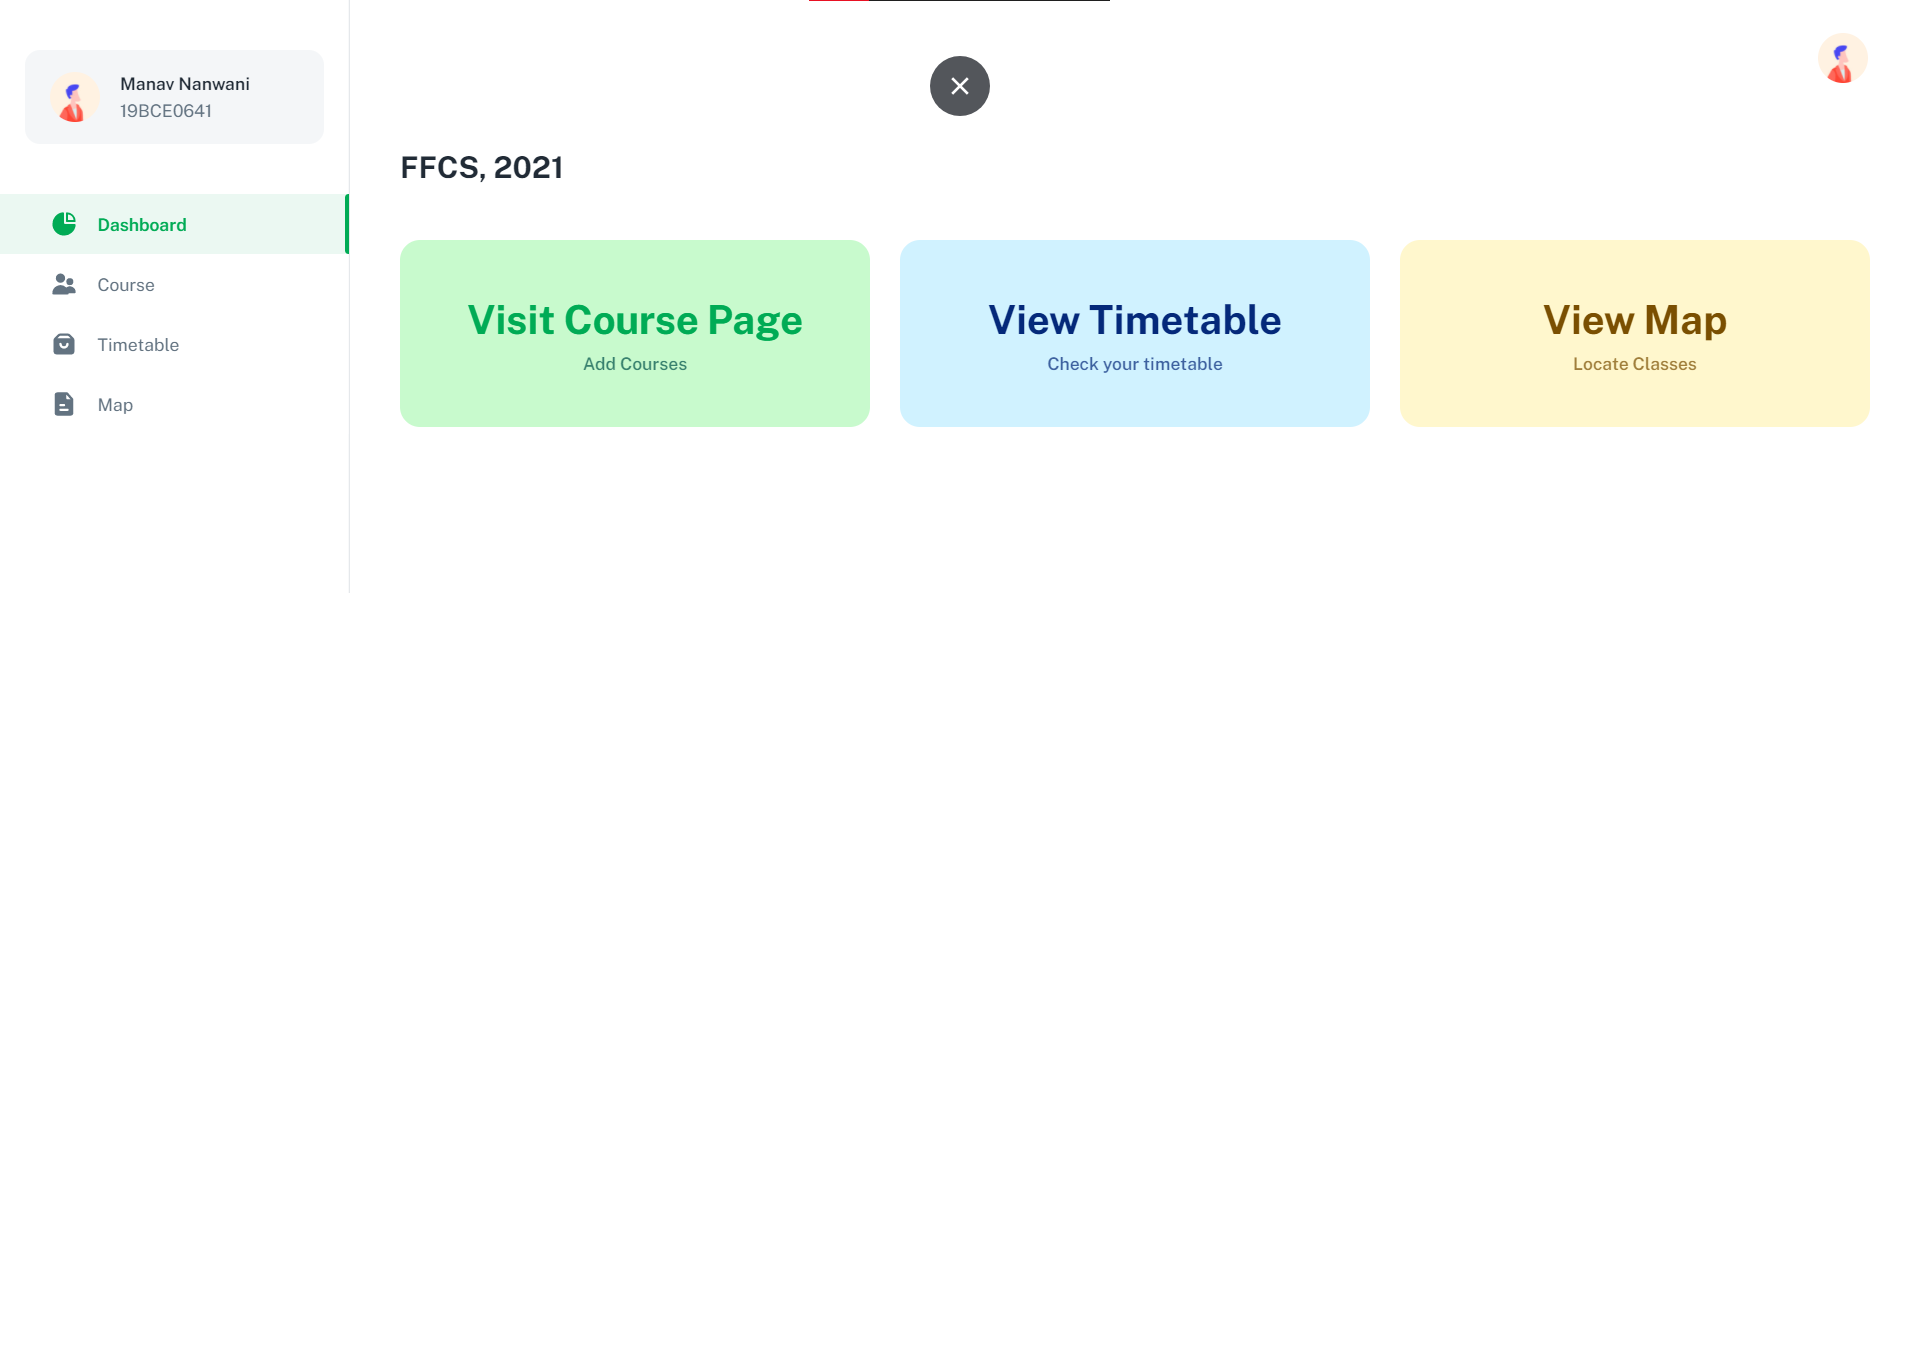
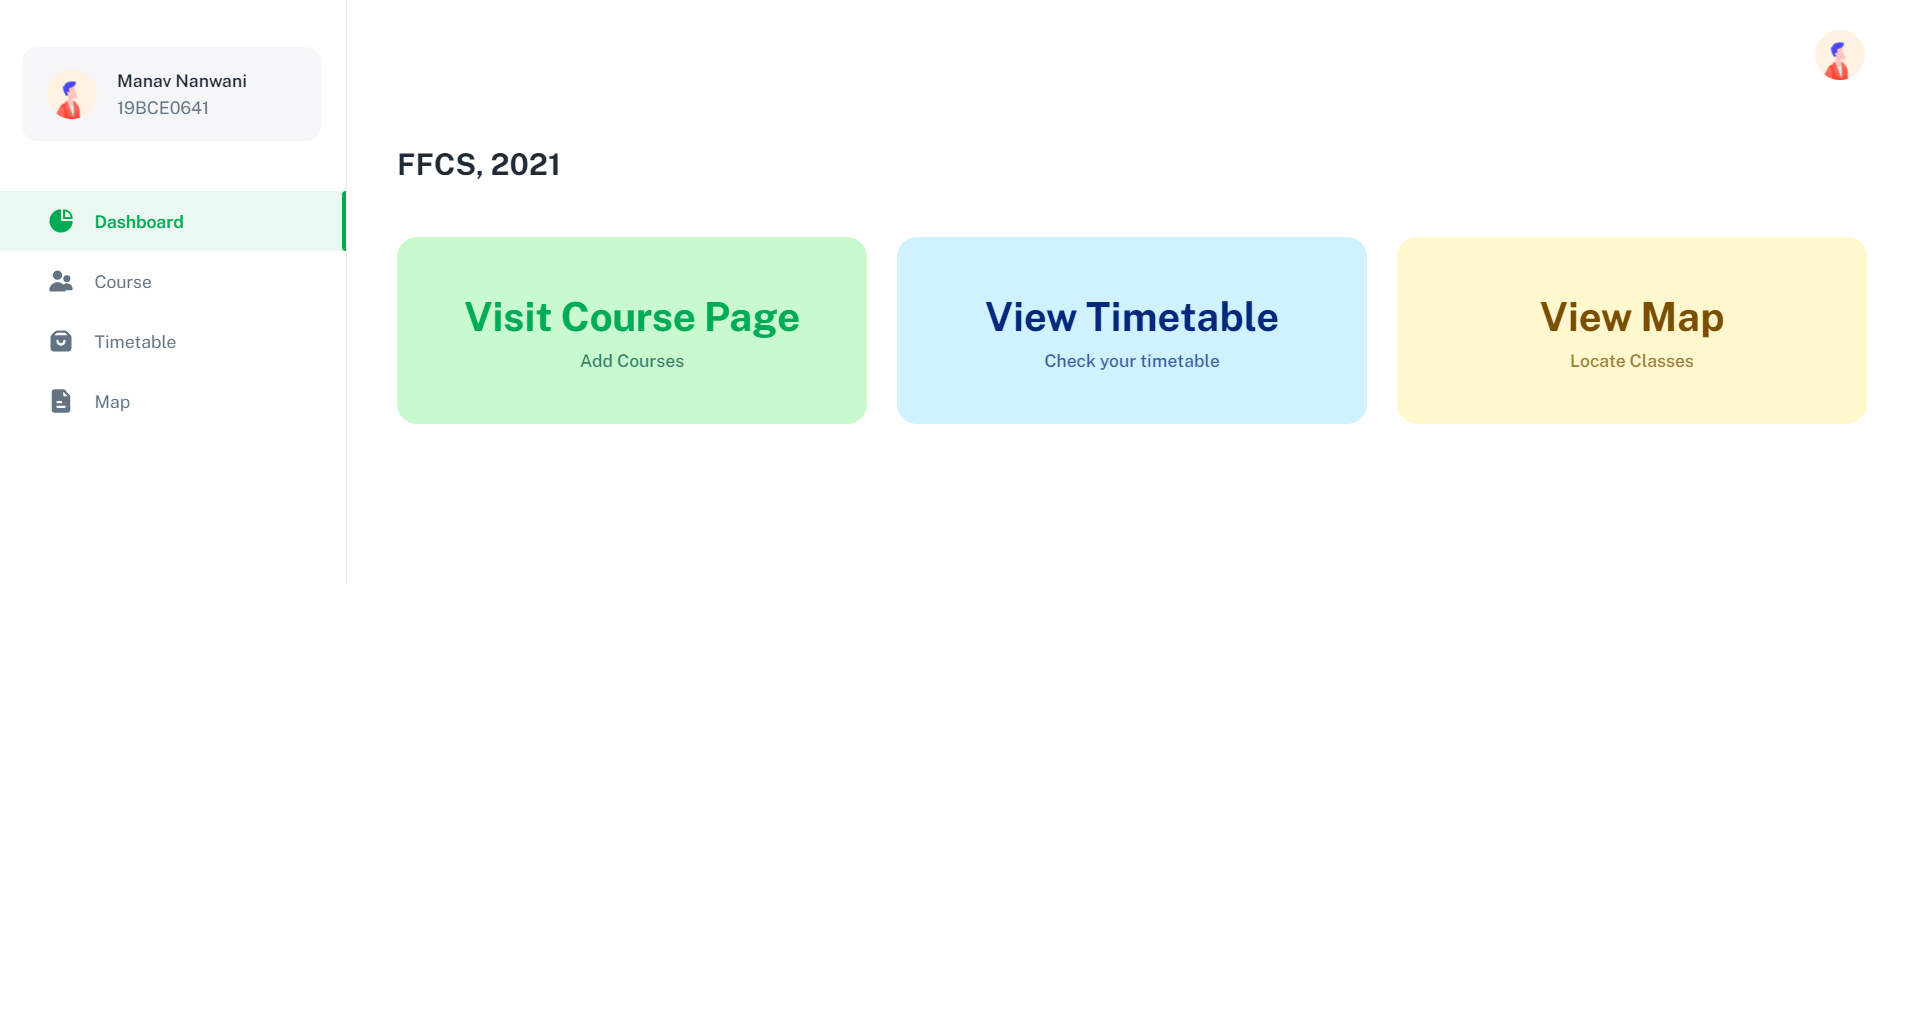
Final Update

diff --git a/client/src/pages/Map.js b/client/src/pages/Map.js
@@ -80,20 +80,17 @@ export default function Map() {
             attribution='&copy; <a href="http://osm.org/copyright">OpenStreetMap</a> contributors'
             url="https://{s}.tile.openstreetmap.org/{z}/{x}/{y}.png"
           />
-          {allCourses.map((course) => {
-            console.log(course.location);
-            return (
-              <Marker position={course.location}>
-                <Tooltip>
-                  Course Name : {course.courseName} <br />
-                  Building Name: {course.building}
-                  <br />
-                  Number of students registered to this class:{course.numOfStudents}
-                </Tooltip>
-                <TooltipCircle posi={course.location} />
-              </Marker>
-            );
-          })}
+          {allCourses.map((course) => (
+            <Marker position={course.location}>
+              <Tooltip>
+                Course Name : {course.courseName} <br />
+                Building Name: {course.building}
+                <br />
+                Number of students registered to this class:{course.numOfStudents.length}
+              </Tooltip>
+              <TooltipCircle posi={course.location} />
+            </Marker>
+          ))}
         </MapContainer>
       </Container>
     </Page>

diff --git a/client/src/pages/Courses.js b/client/src/pages/Courses.js
@@ -105,7 +105,7 @@ export default function Courses() {
         console.log(err);
       });
   };
-
+  const studentId = sessionStorage.getItem('studentId');
   return (
     <Page title="Courses | FFCS">
       <Container>
@@ -166,9 +166,15 @@ export default function Courses() {
                         <TableCell align="center">{course.building}</TableCell>
                         <TableCell align="center">{course.time}</TableCell>
                         <TableCell align="center">
-                          <Button variant="outlined" onClick={() => addCourse(course)}>
-                            Add
-                          </Button>
+                          {course.numOfStudents.includes(studentId) ? (
+                            <Button variant="contained" disabled>
+                              Added
+                            </Button>
+                          ) : (
+                            <Button variant="outlined" onClick={() => addCourse(course)}>
+                              Add
+                            </Button>
+                          )}
                         </TableCell>
                       </TableRow>
                     ))}

diff --git a/client/src/pages/Login.js b/client/src/pages/Login.js
@@ -52,7 +52,7 @@ export default function Login() {
       <MHidden width="mdDown">
         <SectionStyle>
           <Typography variant="h3" sx={{ px: 5, mt: 10, mb: 5 }}>
-            Hi, Welcome Back
+            Login to choose your courses.
           </Typography>
           <img src="/static/illustrations/illustration_login.png" alt="login" />
         </SectionStyle>
@@ -62,7 +62,7 @@ export default function Login() {
         <ContentStyle>
           <Stack sx={{ mb: 5 }}>
             <Typography variant="h4" gutterBottom>
-              Sign in to Minimal
+              Sign in to FFCS
             </Typography>
             <Typography sx={{ color: 'text.secondary' }}>Enter your details below.</Typography>
           </Stack>

diff --git a/client/src/pages/Register.js b/client/src/pages/Register.js
@@ -52,7 +52,7 @@ export default function Register() {
       <MHidden width="mdDown">
         <SectionStyle>
           <Typography variant="h3" sx={{ px: 5, mt: 10, mb: 5 }}>
-            Create a new account here!!
+            Create a new account to choose your courses.
           </Typography>
           <img alt="register" src="/static/illustrations/illustration_register.png" />
         </SectionStyle>
@@ -62,7 +62,7 @@ export default function Register() {
         <ContentStyle>
           <Box sx={{ mb: 5 }}>
             <Typography variant="h4" gutterBottom>
-              Create a Student Account
+              Create a New Account
             </Typography>
           </Box>
 

diff --git a/server/controllers/class.js b/server/controllers/class.js
@@ -40,7 +40,7 @@ export const addCourse = async (req, res) => {
     new: true,
   });
 
-  course.numOfStudents = course.numOfStudents + 1;
+  course.numOfStudents.push(studentId);
   const updatedClasses = await Classes.findByIdAndUpdate(course._id, course, {
     new: true,
   });
@@ -64,7 +64,10 @@ export const deleteCourse = async (req, res) => {
     new: true,
   });
 
-  course.numOfStudents = course.numOfStudents - 1;
+  course.numOfStudents = course.numOfStudents.filter(
+    (c) => c !== String(studentId)
+  );
+
   const updatedClasses = await Classes.findByIdAndUpdate(course._id, course, {
     new: true,
   });

diff --git a/server/models/classes.js b/server/models/classes.js
@@ -6,7 +6,7 @@ const classesSchema = mongoose.Schema({
   faculty: { type: String, required: true },
   time: { type: String, required: true },
   building: { type: String, required: true },
-  numOfStudents: { type: Number },
+  numOfStudents: { type: Array },
   location: { type: Array },
 });
 

diff --git a/client/src/layouts/dashboard/SidebarConfig.js b/client/src/layouts/dashboard/SidebarConfig.js
@@ -18,7 +18,7 @@ const sidebarConfig = [
     icon: getIcon(pieChart2Fill)
   },
   {
-    title: 'Course',
+    title: 'Courses',
     path: '/dashboard/courses',
     icon: getIcon(peopleFill)
   },
